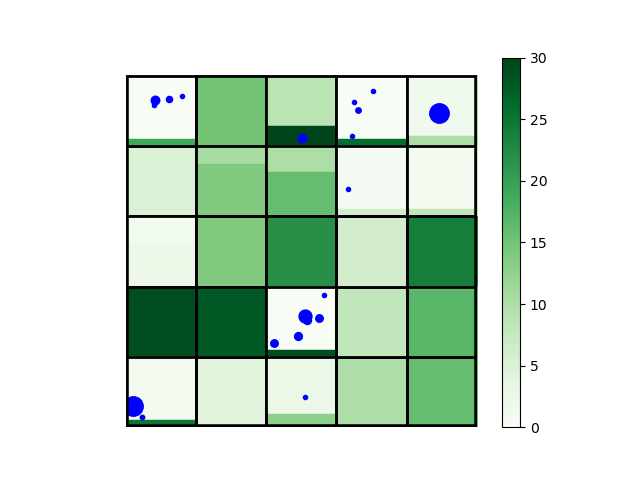
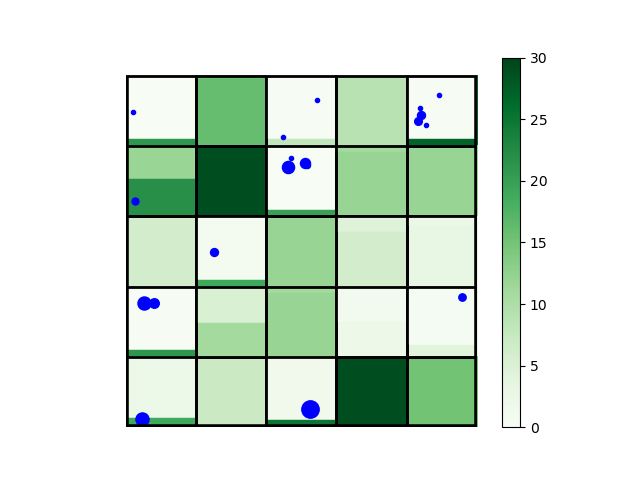
put parameters into config file

Changed region(s): [[0.1875, 0.1562, 0.75, 0.9062], [0.2188, 0.1875, 0.3125, 0.2188], [0.1875, 0.2188, 0.2188, 0.25]]

diff --git a/classBoard.py b/classBoard.py
@@ -4,7 +4,7 @@ import numpy as np
 from classCell import *
 
 class Board():
-    def __init__(self, rows, cols, probzero):
+    def __init__(self, rows, cols, probzero, N, D, p):
         self.rows = rows
         self.cols = cols
         self.probzero = probzero
@@ -22,7 +22,9 @@ class Board():
         np.random.shuffle(self.randomRange)
 
         # board has random payoff values in each cell
-        self.board = [[Cell(np.random.choice(self.randomRange), (i, j)) for j in range(self.cols)] for i in range(self.rows)]
+        # we also pass in parameters N, D, p to split the extraction of the payoff
+        # into randomized microsteps with probability p
+        self.board = [[Cell(np.random.choice(self.randomRange), (i, j), N, D, p) for j in range(self.cols)] for i in range(self.rows)]
         self.originalPays = self.getPayoffs()
         self.totalPayoff = sum(self.flatten(self.originalPays))
         #dictionary of cell location with scientists currently querying it
@@ -82,7 +84,7 @@ class Board():
 
         return [sci.funding for sci in dept]
 
-    def distributeFundingCell(self, chooseCellToFund, funding):
+    def distributeFundingCell(self, chooseCellToFund, funding, exp):
         """distributes funding to each cell based on input weights"""
         # Calculate the probabilities for each cell
         probabilities = np.zeros_like(self.board)
@@ -110,8 +112,7 @@ class Board():
                 numHitsWeight = chooseCellToFund["numHits"] * (cell.numHits)
                 recentHitsWeight = chooseCellToFund["numSciHits"] * (cell.numSciHits)
 
-                #Note: magic number 3 
-                denominator += (visWeight + starWeight + numHitsWeight + recentHitsWeight)**3
+                denominator += (visWeight + starWeight + numHitsWeight + recentHitsWeight) ** exp
         
         for j in range(self.rows):
             for k in range(self.cols):
@@ -136,7 +137,7 @@ class Board():
                 numHitsWeight = chooseCellToFund["numHits"] * (cell.numHits)
                 recentHitsWeight = chooseCellToFund["numSciHits"] * (cell.numSciHits)
 
-                numerator = (visWeight + starWeight + numHitsWeight + recentHitsWeight)**3
+                numerator = (visWeight + starWeight + numHitsWeight + recentHitsWeight) ** exp
                 probabilities[j][k] = numerator / denominator
 
                 #fund cell and then scientist based on probabilities

diff --git a/Run.py b/Run.py
@@ -1,29 +1,22 @@
-from PIL import Image
 import numpy as np
+import json
+from PIL import Image
 from classCell import *
 from classBoard import *
 from classScientist import *
 
-weights = {
-    "citation" : 0.5, 
-    "impact" : 0.5,
-    "exploration" : 0.5,
-    "funding" : 0.5
-}
+# load in input parameters from json config file
+with open("config.json", "r") as params:
+    data = json.load(params)
 
-funding = {
-    "total" : 100,
-    "decrease" : 1,
-    "replenishTime" : 5,
-    "minimum" : 10
-}
-
-chooseCellToFund = {
-    "visPayoff" : 0.5,
-    "starFactor" : 0.5,
-    "numHits" : 0.5,
-    "numSciHits" : 0.5
-}
+weights = data["cellChoiceWeights"]
+funding = data["fundingParams"]
+chooseCellToFund = data["fundDistributionFactors"]
+# semi-firm parameters that you could easily change but probabily won't need to
+exp = data["expForProbabilities"]
+N = data["payoffExtractionParams"]["N"]
+D = data["payoffExtractionParams"]["D"]
+p = data["payoffExtractionParams"]["p"]
 
 def oneRun(board, cellsHit, numRun):
     """runs query simulation for one year"""
@@ -50,13 +43,13 @@ def batchRun(board, numScientists, numRuns):
     for j in range(numRuns):
         # keep track of which cells the scientists are hitting to check overlap
         if j % funding["replenishTime"] == 0:
-            board.distributeFundingCell(chooseCellToFund, funding)
+            board.distributeFundingCell(chooseCellToFund, funding, exp)
 
         board.cellsHit = {}
         for idx in range(len(dept)):
             scientist = dept[idx]
             scientist.funding -= funding["decrease"]
-            location = scientist.chooseCell(board, weights)
+            location = scientist.chooseCell(board, weights, exp)
             if location in board.cellsHit.keys():
                 board.cellsHit[location].append(scientist)
             else:
@@ -81,5 +74,5 @@ def batchRun(board, numScientists, numRuns):
             save_all=True, duration=500, loop=1)
     return
 
-board = Board(5, 5, 0)
+board = Board(5, 5, 0, N, D, p)
 batchRun(board, numScientists=20, numRuns=20)

diff --git a/classScientist.py b/classScientist.py
@@ -22,7 +22,7 @@ class Scientist():
         overall = num/denom
         return overall
 
-    def probCell(self, board, weights):
+    def probCell(self, board, weights, exp):
         """"generates a probability distribution over the cells"""
         citToCareer = (self.citcount-(31 - self.career))
         # if they have a low citToCareer difference, then they value citations more
@@ -62,21 +62,21 @@ class Scientist():
                 cell = board.board[x][y]
                 denominator += ((c * cell.numSciHits) + \
                     (i * board.getVisPayoff(cell.location)) + (f * cell.funds) + \
-                    (e * 1/(1+cell.numHits)))**3
+                    (e * 1/(1+cell.numHits))) ** exp
         for j in range(board.rows):
             for k in range(board.cols):
                 cell = board.board[j][k]
                 
                 numerator = ((c * cell.numSciHits) + (i * board.getVisPayoff(cell.location)) + \
-                    (e * 1/(1 + cell.numHits)) + (f * cell.funds))**3
+                    (e * 1/(1 + cell.numHits)) + (f * cell.funds)) ** exp
                 
                 probabilities[j][k] = numerator / denominator
 
         return probabilities
 
-    def chooseCell(self, board, weights):
+    def chooseCell(self, board, weights, exp):
         """chooses cell to query"""
-        probs = self.probCell(board, weights)
+        probs = self.probCell(board, weights, exp)
     
         flatBoard = [board.board[i][j].location for j in range(board.cols) for i in range(board.rows)]
         flatProbs = board.flatten(probs)

diff --git a/classCell.py b/classCell.py
@@ -2,12 +2,12 @@ import numpy as np
 import math
 
 class Cell():
-    def __init__(self, payoff, location):
+    def __init__(self, payoff, location, N, D, p):
         self.payoff = payoff
         self.location = location
         self.numHits = 0
-        self.lowerx, self.upperx, self.yList = self.logiFunc(15, 10)
-        self.stepSize, self.slopeVals = self.setStepSize(10, 0.5)
+        self.lowerx, self.upperx, self.yList = self.logiFunc(N, D)
+        self.stepSize, self.slopeVals = self.setStepSize(D, p)
         self.numSciHits = 0
         self.funds = 0
 
